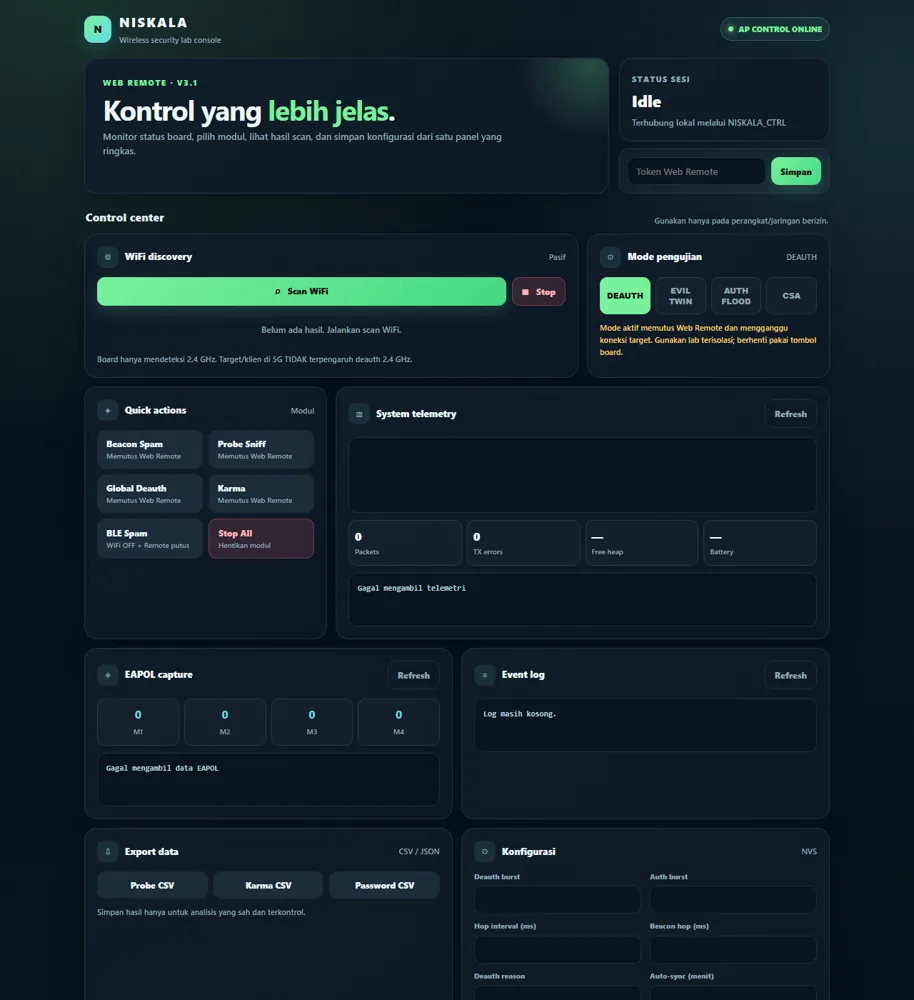
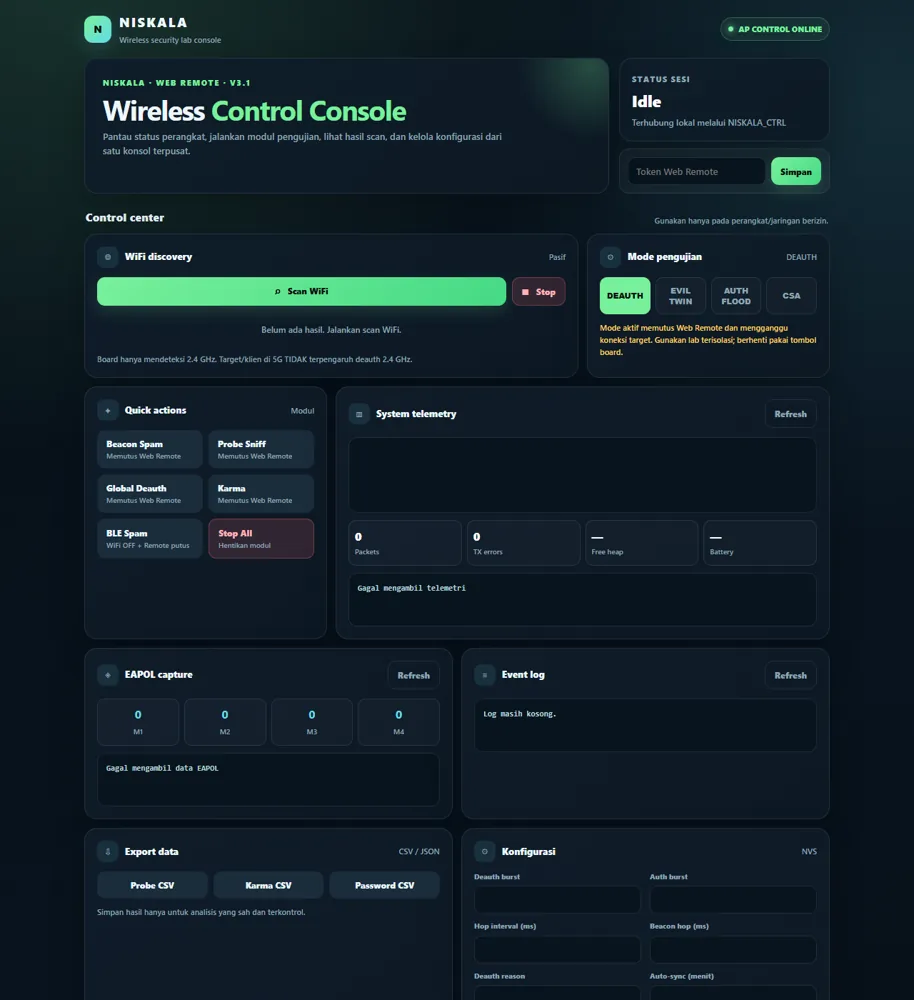
web remote: headline lebih profesional (Wireless Control Console) + update screenshot homepage

Changed region(s): [[0.0919, 0.062, 0.5514, 0.155]]

diff --git a/src/web_ui.h b/src/web_ui.h
@@ -14,7 +14,7 @@ const char HTML_REMOTE[] PROGMEM = R"rawliteral(
 @media(max-width:500px){.topbar{align-items:flex-start}.connection{font-size:10px;padding:6px 8px}.brand strong{font-size:16px}.brand small{font-size:10px}.hero-card{padding:19px}.hero h1{font-size:28px}.hero-side{display:flex}.mode-grid{grid-template-columns:repeat(2,minmax(0,1fr))}.action-grid{grid-template-columns:1fr}.metrics{grid-template-columns:repeat(2,minmax(0,1fr))}.eapol-grid{grid-template-columns:repeat(2,minmax(0,1fr))}.exports{grid-template-columns:1fr}.form-grid{grid-template-columns:1fr}.field.full-field{grid-column:auto}.form-actions{display:grid;grid-template-columns:1fr 1fr}.section-head h2{font-size:14px}}
 </style></head><body><div class="app">
 <div class="topbar"><div class="brand"><div class="brand-mark">N</div><div><strong>NISKALA</strong><small>Wireless security lab console</small></div></div><div class="connection"><i></i> AP CONTROL ONLINE</div></div>
-<div class="hero"><div class="hero-card"><div class="eyebrow">WEB REMOTE · V3.1</div><h1>Kontrol yang <span>lebih jelas</span>.</h1><p>Monitor status board, pilih modul, lihat hasil scan, dan simpan konfigurasi dari satu panel yang ringkas.</p></div><div class="hero-side"><div class="panel status-card"><span class="status-label">Status sesi</span><strong class="status-value" id="info">Idle</strong><span class="status-meta">Terhubung lokal melalui NISKALA_CTRL</span></div><div class="token-row"><input id="web_token" type="password" placeholder="Token Web Remote" aria-label="Token Web Remote"><button class="btn btn-primary" onclick="saveToken()">Simpan</button></div></div></div>
+<div class="hero"><div class="hero-card"><div class="eyebrow">NISKALA · WEB REMOTE · V3.1</div><h1>Wireless <span>Control Console</span></h1><p>Pantau status perangkat, jalankan modul pengujian, lihat hasil scan, dan kelola konfigurasi dari satu konsol terpusat.</p></div><div class="hero-side"><div class="panel status-card"><span class="status-label">Status sesi</span><strong class="status-value" id="info">Idle</strong><span class="status-meta">Terhubung lokal melalui NISKALA_CTRL</span></div><div class="token-row"><input id="web_token" type="password" placeholder="Token Web Remote" aria-label="Token Web Remote"><button class="btn btn-primary" onclick="saveToken()">Simpan</button></div></div></div>
 <div class="section-head"><h2>Control center</h2><p>Gunakan hanya pada perangkat/jaringan berizin.</p></div>
 <div class="grid"><section class="panel span-8"><div class="panel-title"><div class="icon-title"><span class="icon">◎</span><strong>WiFi discovery</strong></div><span id="scan-count">Pasif</span></div><div class="scan-toolbar"><button class="btn btn-primary" onclick="scanWifi()">⌕ &nbsp; Scan WiFi</button><button class="btn btn-danger" onclick="stopAll()">■ &nbsp; Stop</button></div><div id="scanResult" class="ap-list"></div><div id="targetNote"></div><div id="targetPanel" style="display:none;margin-top:10px;padding:12px;border:1px solid var(--line);border-radius:12px;background:#0b1722"><div class="panel-title" style="margin-bottom:8px"><div class="icon-title"><span class="icon">◉</span><strong id="t-ssid">-</strong></div><span id="t-meta"></span></div><div id="pmfResult" style="font-size:12px;color:var(--muted);margin-bottom:9px">PMF belum dicek. Tekan "Cek PMF" untuk data asli dari beacon.</div><div style="display:flex;gap:8px;flex-wrap:wrap"><button class="btn btn-quiet" id="btnPmf" onclick="checkPmf()">Cek PMF</button><button class="btn btn-primary" id="launchBtn" onclick="launchAttack()">Mulai DEAUTH</button></div></div><p class="scan-note">Board hanya mendeteksi 2.4 GHz. Target/klien di 5G TIDAK terpengaruh deauth 2.4 GHz.</p></section>
 <section class="panel span-4"><div class="panel-title"><div class="icon-title"><span class="icon">⚙</span><strong>Mode pengujian</strong></div><span id="mode-label">DEAUTH</span></div><div class="mode-grid"><button class="mode active" id="m_deauth" onclick="setMode('deauth')">DEAUTH</button><button class="mode" id="m_evil" onclick="setMode('evil')">EVIL TWIN</button><button class="mode" id="m_auth" onclick="setMode('auth')">AUTH FLOOD</button><button class="mode" id="m_csa" onclick="setMode('csa')">CSA</button></div><p class="danger-note">Mode aktif memutus Web Remote dan mengganggu koneksi target. Gunakan lab terisolasi; berhenti pakai tombol board.</p></section>
